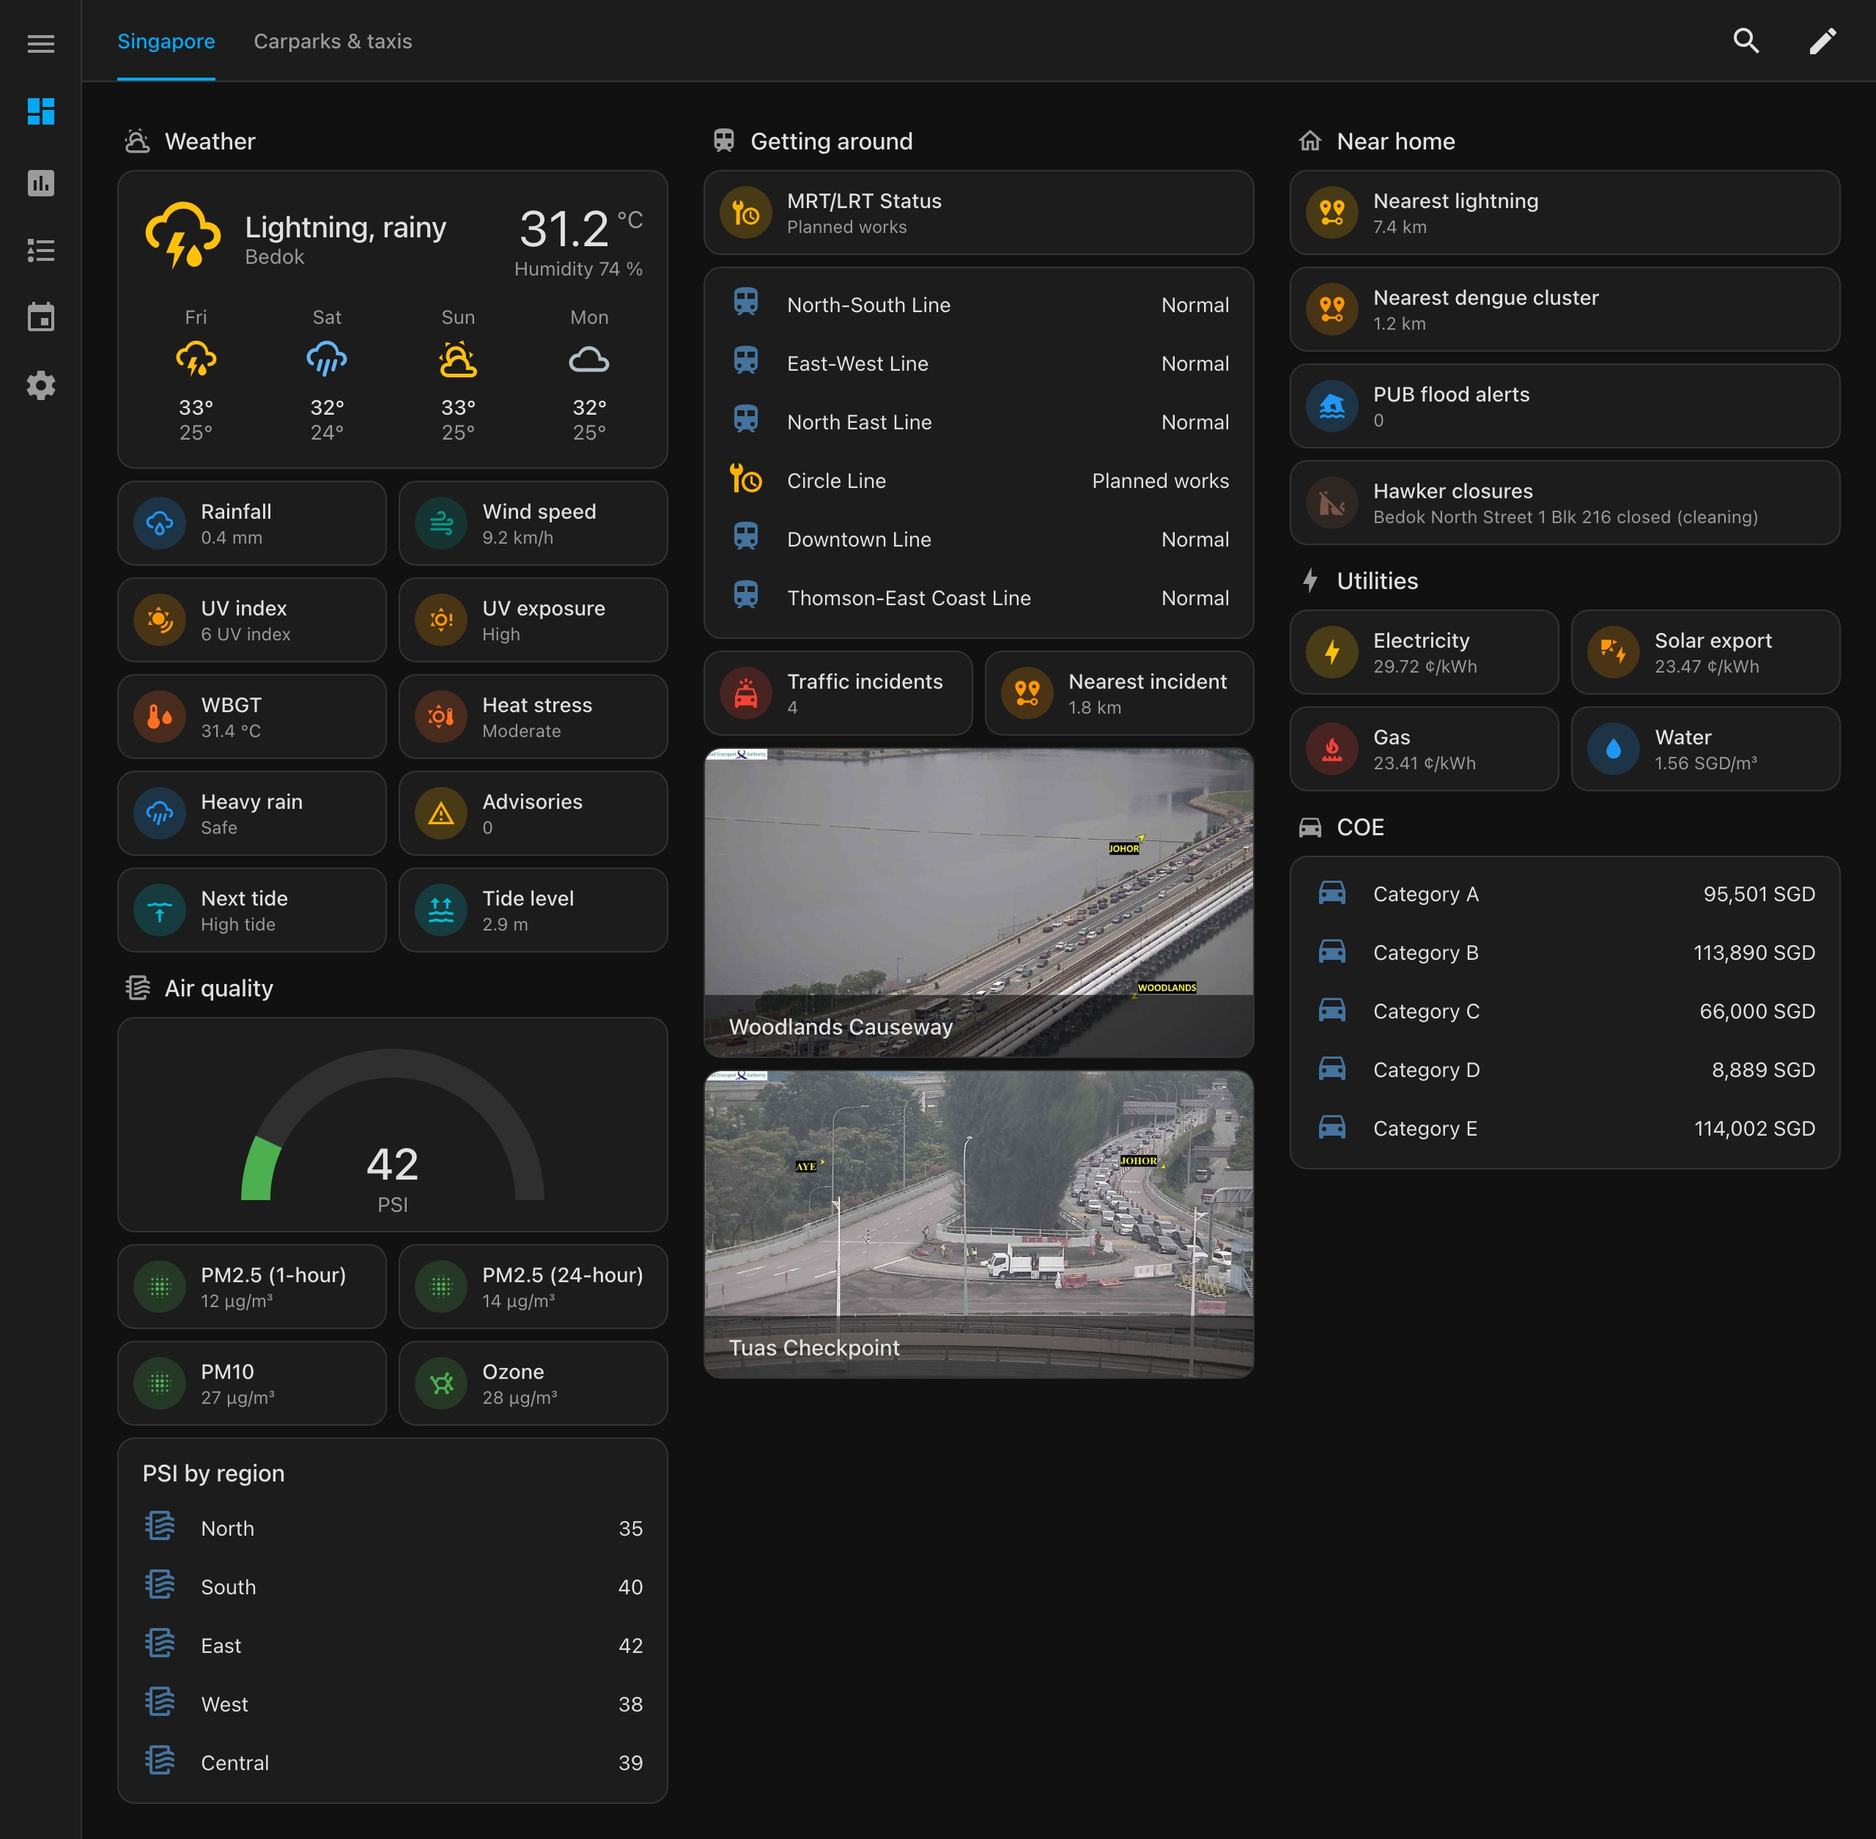
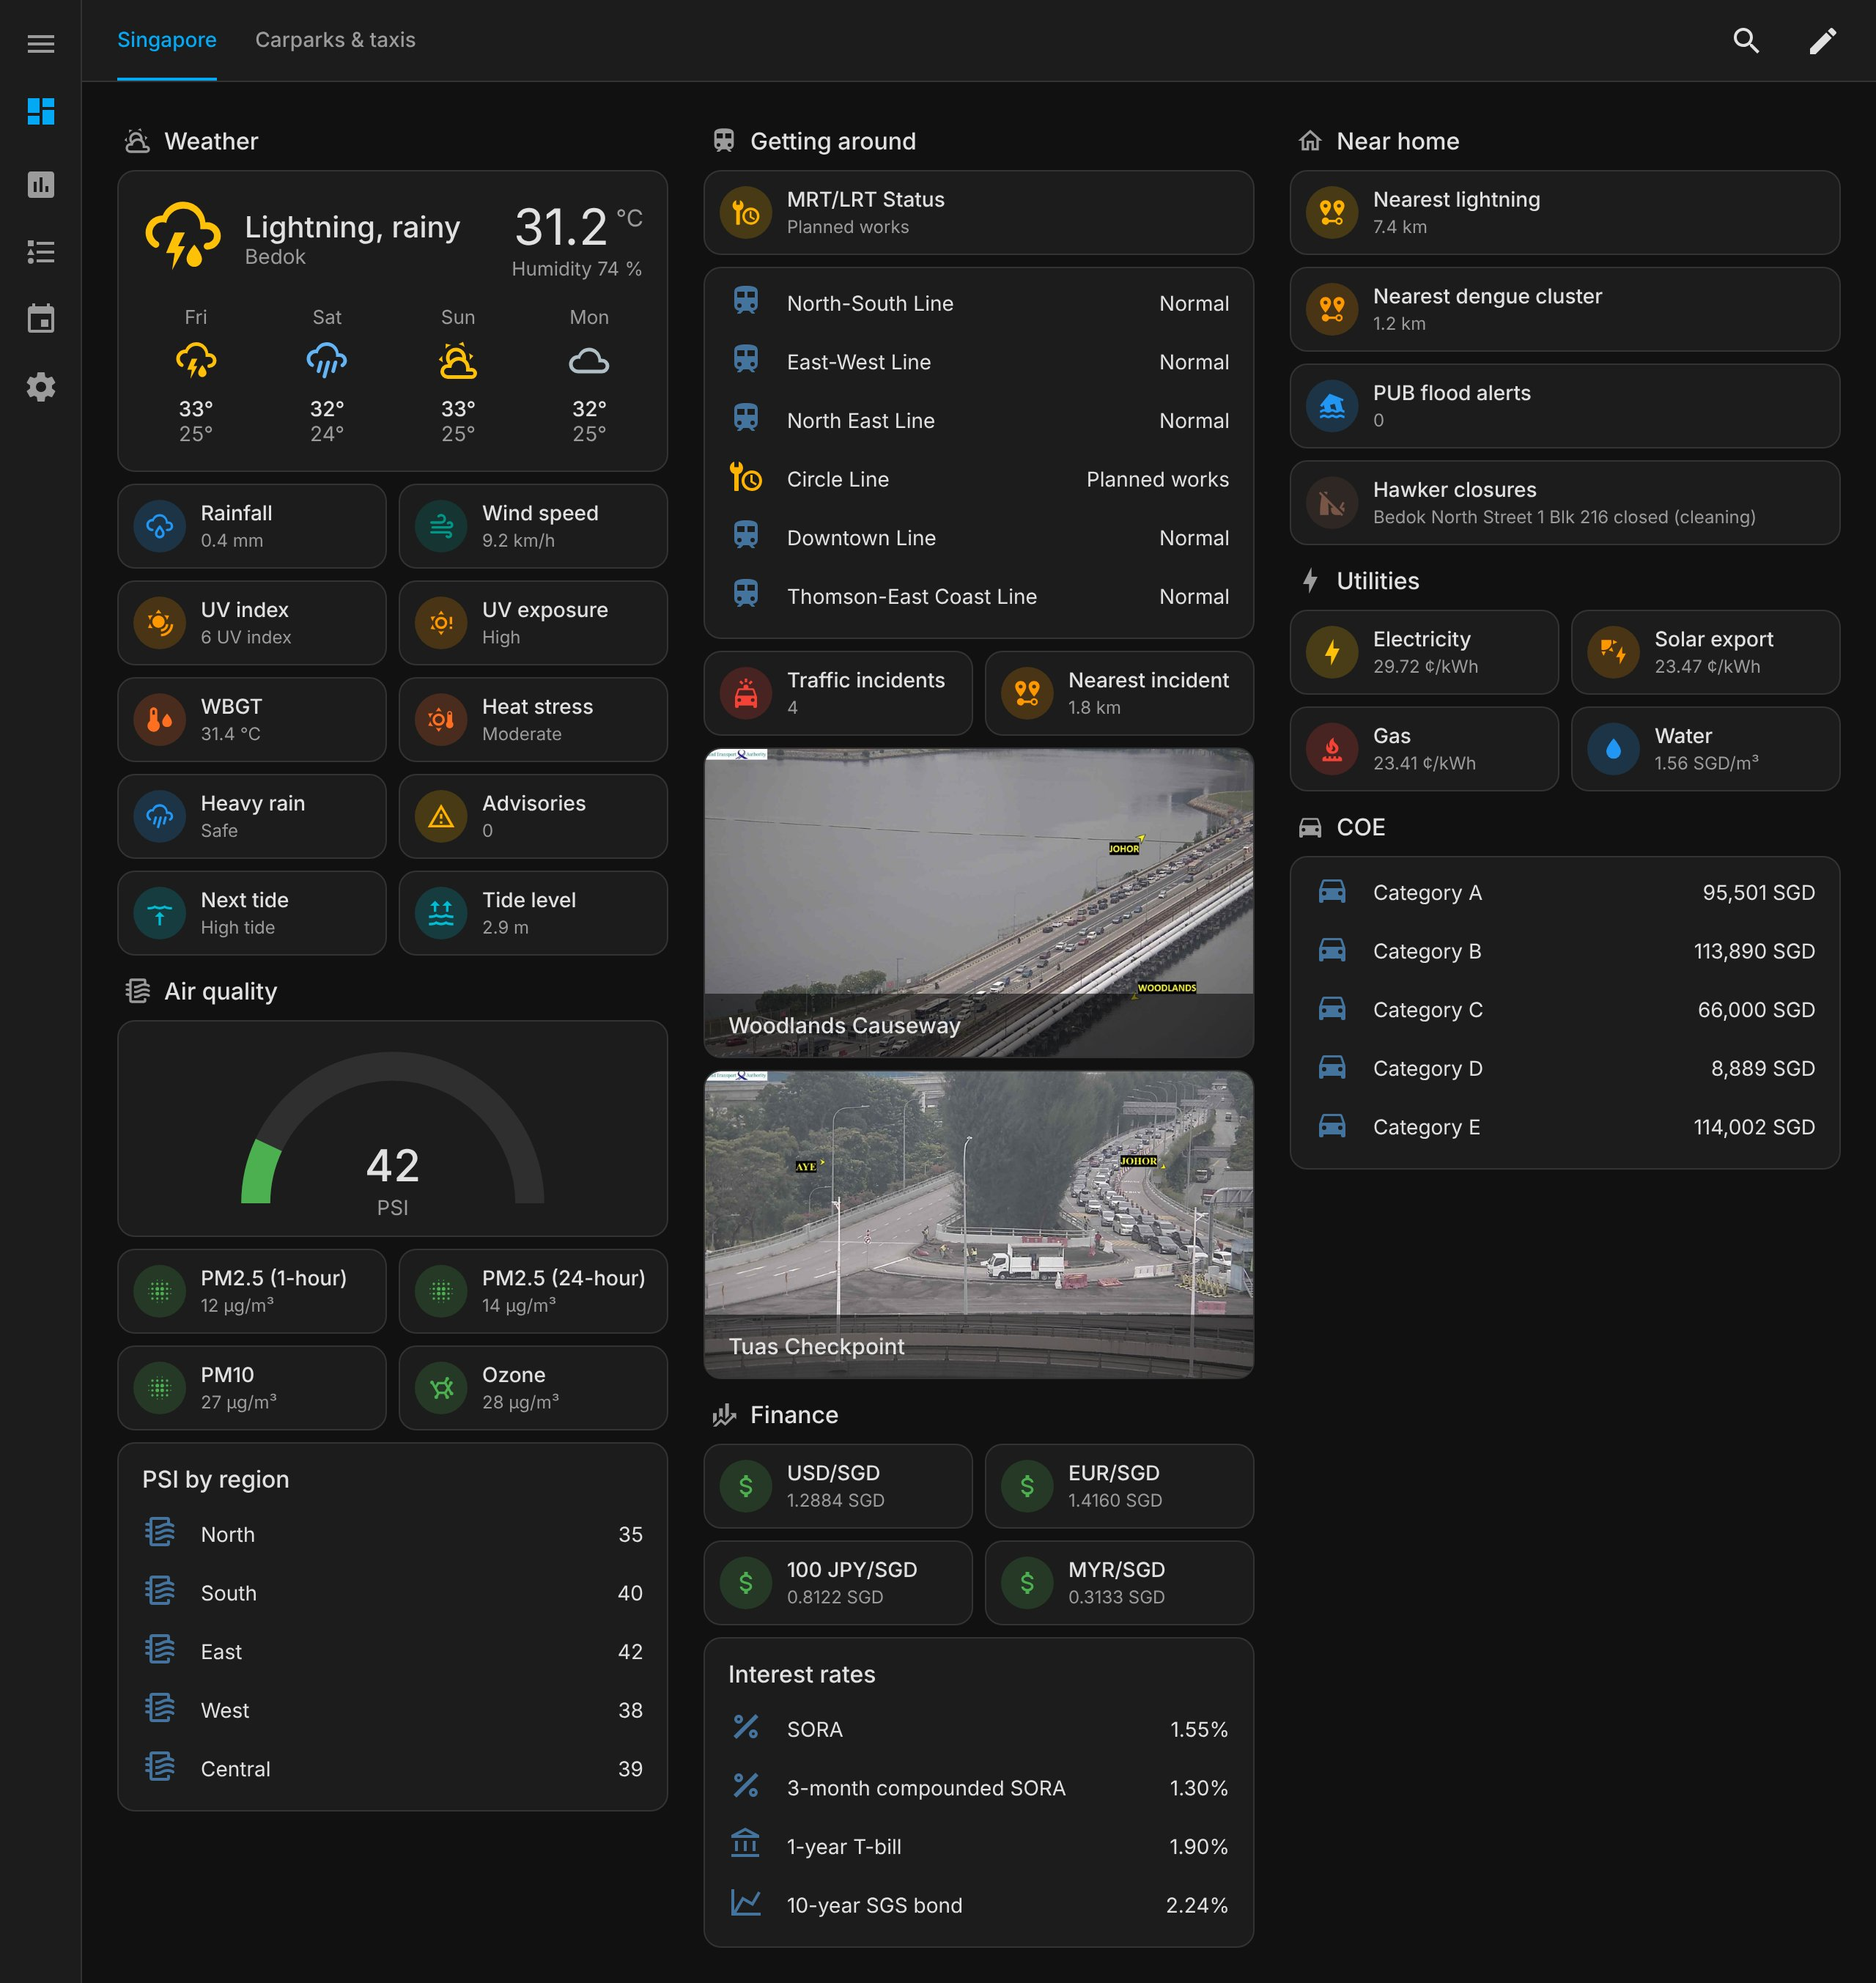
v0.20.0: bump version, add FX and interest rates to the README dashboard (#66)
#62 (traffic incident map markers), #63 (FX and interest rates) and #65
(LTA DataMall crowd density and EV chargers) shipped without a version
bump, so no release was cut for them.

- manifest.json 0.19.0 -> 0.20.0
- examples/dashboard.yaml + hero.html/hero.jpg: Finance section (USD,
  EUR, 100 JPY, MYR in SGD; SORA, compounded SORA, 1-year T-bill,
  10-year SGS), values from the recorded ECB (2026-11-20) and SingStat
  (Oct 2026) fixtures
- CLAUDE.md: list the four new coordinators

Claude-Session: https://claude.ai/code/session_01SaaNWg4gdSCPPiDkrUpHwg

diff --git a/docs/mockups/hero.html b/docs/mockups/hero.html
@@ -1,6 +1,7 @@
 <!doctype html>
 <!-- Mirrors examples/dashboard.yaml: only built-in Home Assistant cards, with the states
-     they display. Keep the two in sync. -->
+     they display. Keep the two in sync.
+     Finance: ECB reference rates of 2026-11-20 and MAS rates for Oct 2026 (SingStat M700071). -->
 <html><head><meta charset="utf-8"><link rel="stylesheet" href="ha.css">
 <style>
   .view { grid-template-columns: repeat(3, 1fr); }
@@ -106,6 +107,20 @@
         </div>
         <div class="card cam"><img src="cameras/2701.jpg" alt=""><div class="bar">Woodlands Causeway</div></div>
         <div class="card cam"><img src="cameras/4713.jpg" alt=""><div class="bar">Tuas Checkpoint</div></div>
+
+        <div class="heading"><i m="mdiFinance"></i>Finance</div>
+        <div class="grid2">
+          <div class="card tile"><span class="bubble" style="--c:var(--green)"><i m="mdiCurrencyUsd"></i></span><div><div class="name">USD/SGD</div><div class="state">1.2884 SGD</div></div></div>
+          <div class="card tile"><span class="bubble" style="--c:var(--green)"><i m="mdiCurrencyUsd"></i></span><div><div class="name">EUR/SGD</div><div class="state">1.4160 SGD</div></div></div>
+          <div class="card tile"><span class="bubble" style="--c:var(--green)"><i m="mdiCurrencyUsd"></i></span><div><div class="name">100 JPY/SGD</div><div class="state">0.8122 SGD</div></div></div>
+          <div class="card tile"><span class="bubble" style="--c:var(--green)"><i m="mdiCurrencyUsd"></i></span><div><div class="name">MYR/SGD</div><div class="state">0.3133 SGD</div></div></div>
+        </div>
+        <div class="card"><div class="card-title">Interest rates</div><div class="rows">
+          <div class="row"><span class="ic"><i m="mdiPercentOutline"></i></span><span class="label">SORA</span><span class="val">1.55%</span></div>
+          <div class="row"><span class="ic"><i m="mdiPercentOutline"></i></span><span class="label">3-month compounded SORA</span><span class="val">1.30%</span></div>
+          <div class="row"><span class="ic"><i m="mdiBankOutline"></i></span><span class="label">1-year T-bill</span><span class="val">1.90%</span></div>
+          <div class="row"><span class="ic"><i m="mdiChartLine"></i></span><span class="label">10-year SGS bond</span><span class="val">2.24%</span></div>
+        </div></div>
       </div>
 
       <div class="section">

diff --git a/CLAUDE.md b/CLAUDE.md
@@ -34,6 +34,10 @@ custom_components/singapore/
 ├── carpark_coordinator.py  # CarparkCoordinator: HDB lot availability + carpark info (SVY21→WGS84)
 ├── taxi_coordinator.py     # TaxiAvailabilityCoordinator: free taxis island-wide, counted near home
 ├── capitaland_coordinator.py # CapitaLandCarparkCoordinator: CapitaLand JustPark mall lots (opt-in)
+├── fx_coordinator.py       # FxCoordinator: ECB daily reference rates → SGD crosses (key-free)
+├── interest_coordinator.py # InterestRateCoordinator: MAS SORA/T-bill/SGS yields via SingStat M700071
+├── train_crowd_coordinator.py # TrainCrowdCoordinator: LTA DataMall PCDRealTime (opt-in, LTA key)
+├── ev_charger_coordinator.py # EvChargerCoordinator: LTA DataMall EV charger availability (opt-in, LTA key)
 ├── radar_coordinator.py    # RadarCoordinator: NEA rain radar PNGs (70/240/480 km)
 ├── radar_image.py          # Pure-Pillow compositing of radar onto NEA base maps (BASEMAPS) + GIF loops
 ├── sp_account_coordinator.py # SpAccountCoordinator: one per SP e-account subentry (usage, bills, stats)
@@ -50,7 +54,7 @@ custom_components/singapore/
 ├── calendar.py             # Calendar entities (public holidays; MOE school holidays/terms/exams;
 │                           #   hawker centre closures)
 ├── event.py                # Event entities: COE new results, MRT/LRT service alerts
-├── geo_location.py         # Free taxis within 1 km as geo_location entities (Map card markers)
+├── geo_location.py         # Free taxis within 1 km + live traffic incidents as geo_location entities (Map card markers)
 ├── weather.py              # Weather entities (one per Singapore forecast area)
 ├── config_flow.py          # UI config flow (name; single instance), options flow, SP account subentry flow
 ├── quality_scale.yaml      # Self-assessed HA quality scale rules (hassfest skips it for custom integrations)

diff --git a/README.md b/README.md
@@ -28,7 +28,7 @@
 </p>
 
 <p align="center">
-  <img src="images/hero.jpg" alt="Example Singapore dashboard: Bedok weather with a 4-day forecast, rainfall, wind, UV index and UV exposure, WBGT and heat stress, heavy rain warning, weather advisories, next tide and tide level, PSI gauge, 1-hour and 24-hour PM2.5, PM10, ozone and PSI by region, MRT/LRT line status, live LTA traffic incidents and nearest incident distance, live Woodlands Causeway and Tuas Checkpoint camera stills, nearest lightning and dengue cluster distances, flood alerts, the current hawker centre closure, utility tariffs and COE prices" width="100%">
+  <img src="images/hero.jpg" alt="Example Singapore dashboard: Bedok weather with a 4-day forecast, rainfall, wind, UV index and UV exposure, WBGT and heat stress, heavy rain warning, weather advisories, next tide and tide level, PSI gauge, 1-hour and 24-hour PM2.5, PM10, ozone and PSI by region, MRT/LRT line status, live LTA traffic incidents and nearest incident distance, live Woodlands Causeway and Tuas Checkpoint camera stills, nearest lightning and dengue cluster distances, flood alerts, the current hawker centre closure, SGD exchange rates for USD, EUR, 100 JPY and MYR, SORA, compounded SORA, T-bill and SGS bond yields, utility tariffs and COE prices" width="100%">
   <br>
   <sub>An example dashboard built only from Home Assistant's built-in cards. The integration provides the entities; <a href="examples/dashboard.yaml">this YAML</a> builds the dashboard. Camera stills are real LTA images.</sub>
 </p>
